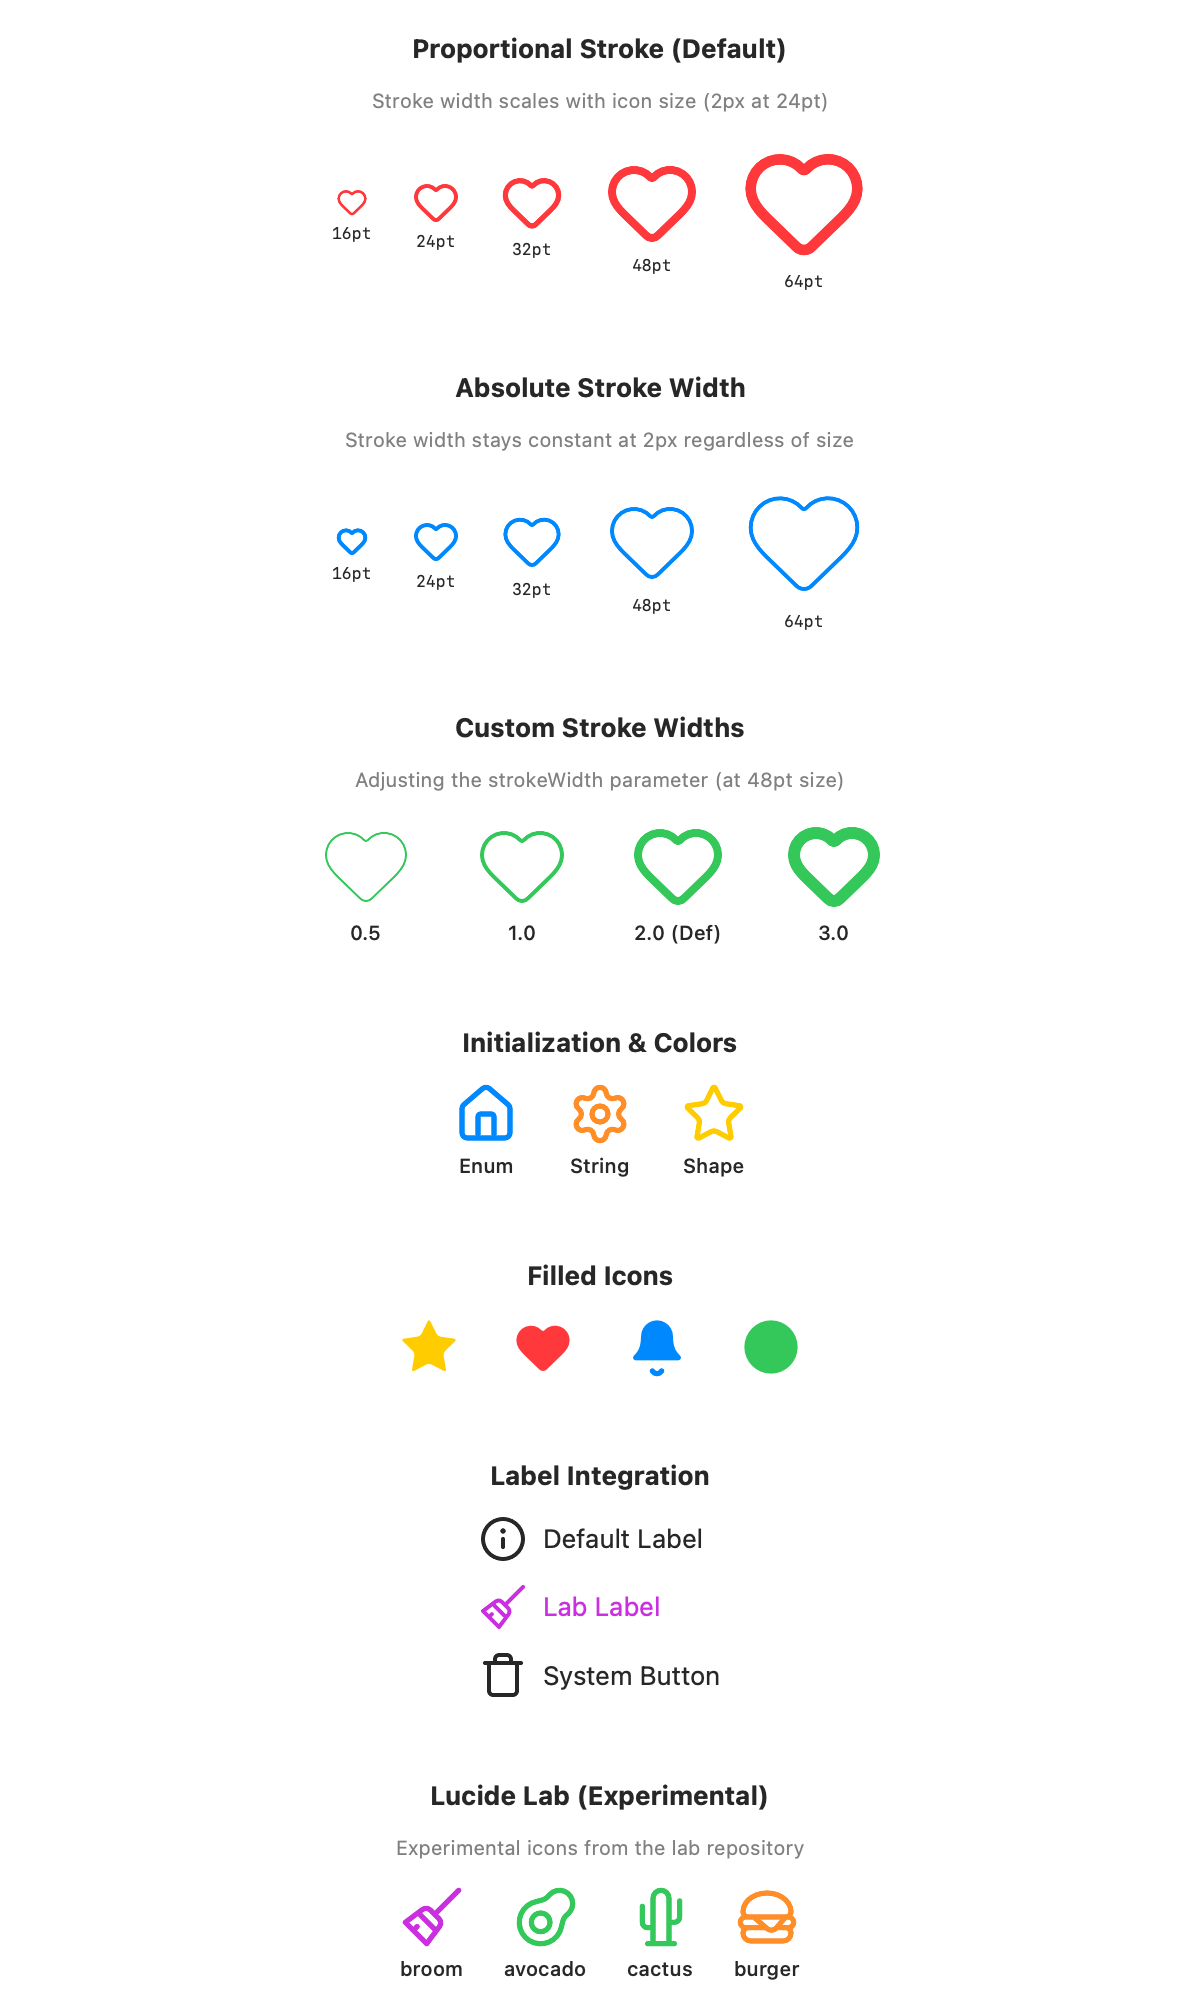
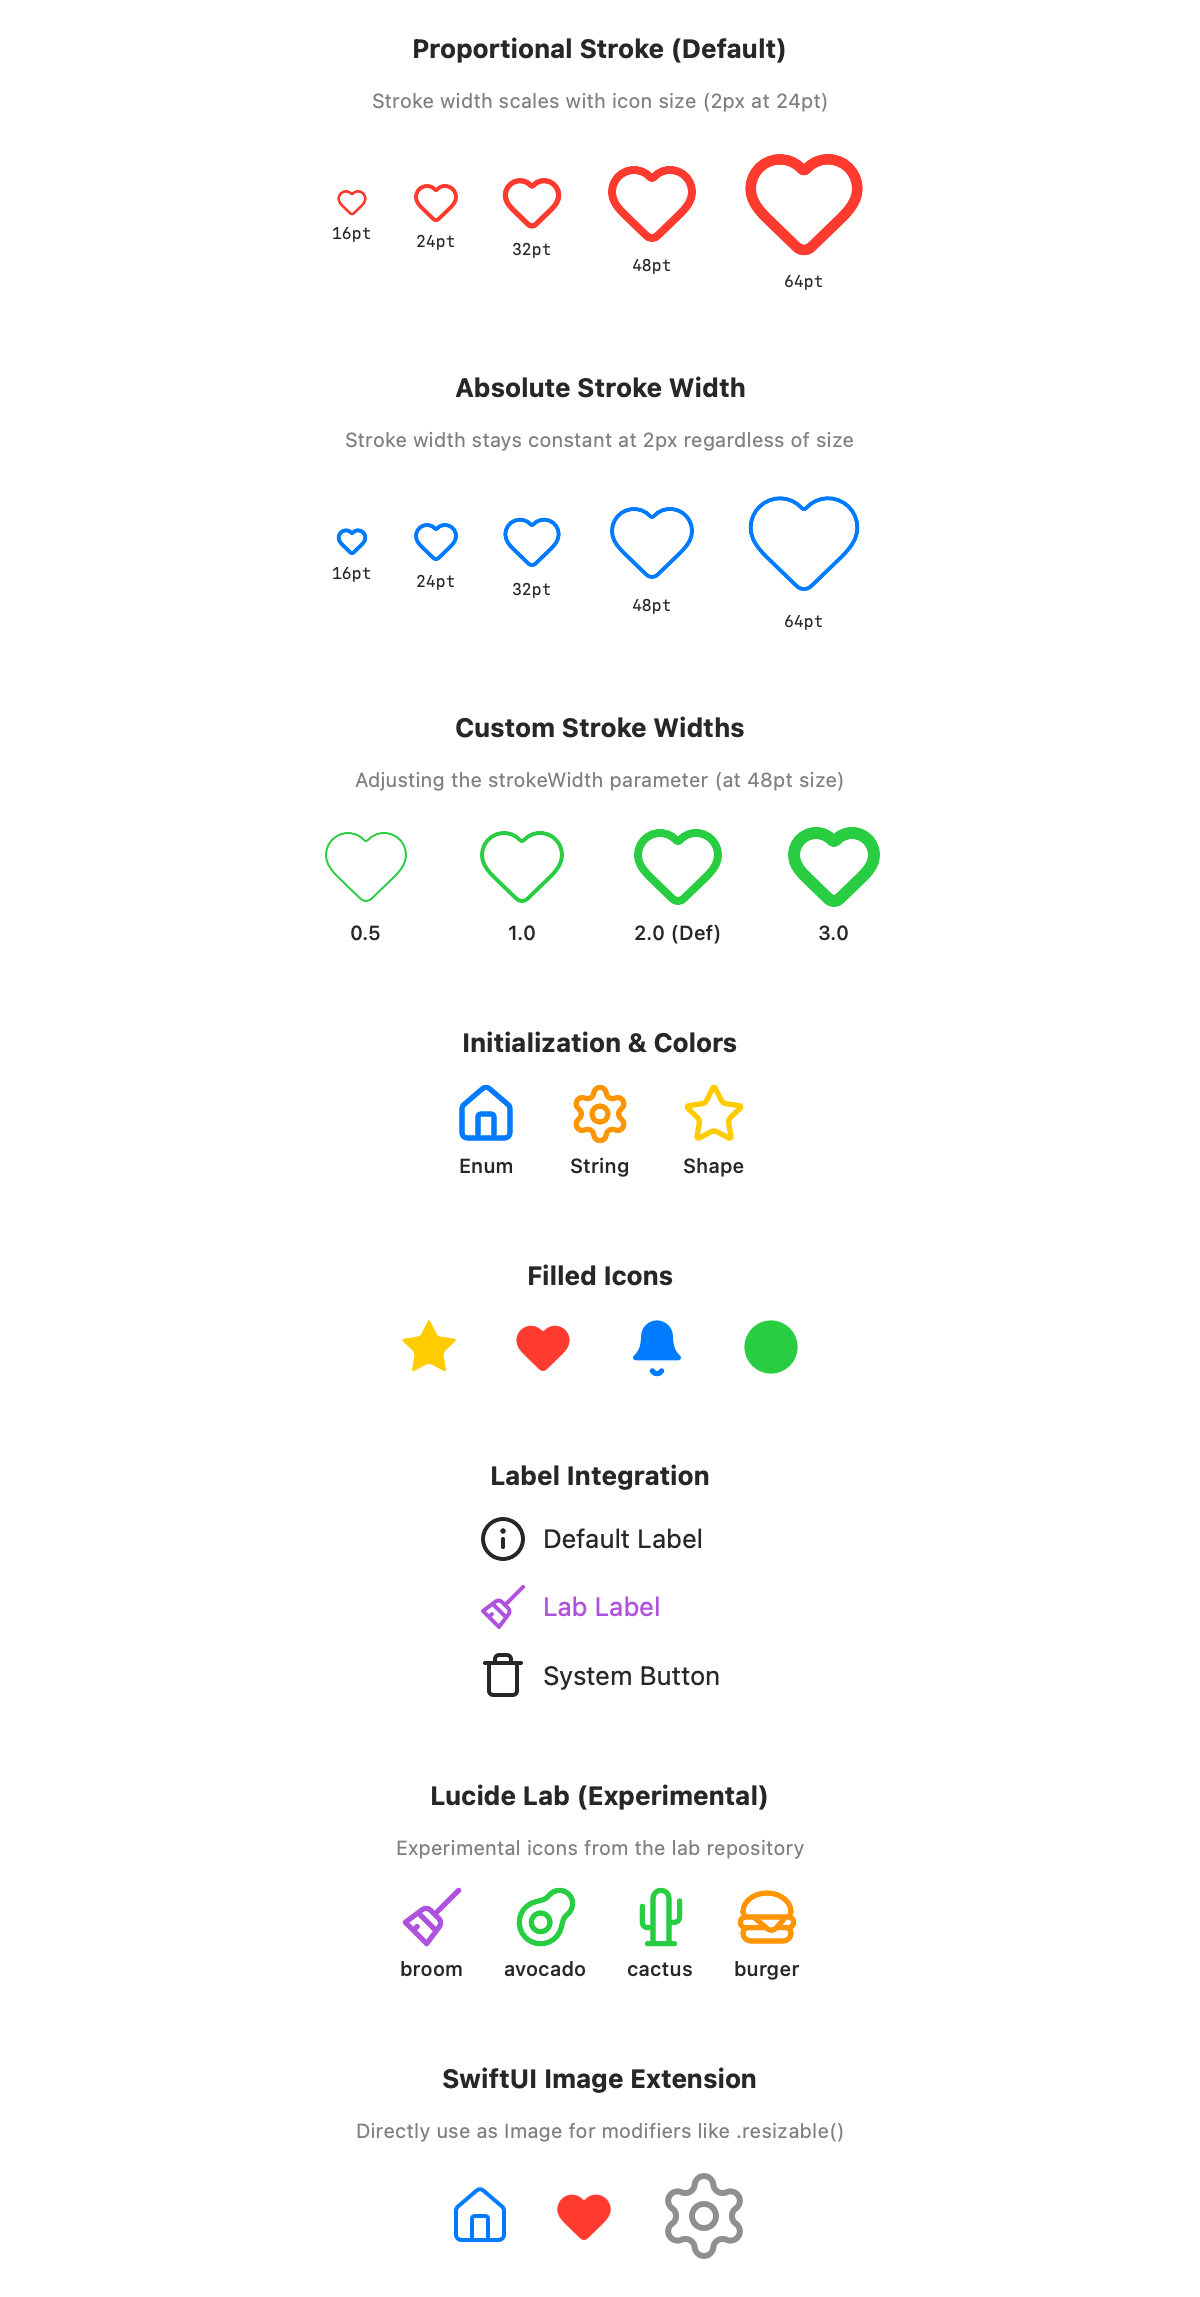
feat: add SwiftUI Image support (#5) (#14)
* feat: add SwiftUI Image support (#5)

- Added Image+Lucide.swift extension
- Supports initializing Image from LucideShape, LucideIconName, and LucideLabIconName
- Added support for stroked (lucide:) and filled (lucideFill:) variations
- Updated LucideGallery to demonstrate Image usage
- Added unit tests for new initializers

* fix: correct coordinate system for SwiftUI Image rendering

* docs: update preview for PR verification

---------

diff --git a/Sources/LucideSwift/Image+Lucide.swift b/Sources/LucideSwift/Image+Lucide.swift
@@ -1,0 +1,132 @@
+//
+//  Image+Lucide.swift
+//  LucideSwift
+//
+//  Extension for creating SwiftUI Image directly from Lucide icons
+//
+
+import SwiftUI
+import CoreGraphics
+
+@available(iOS 14.0, macOS 11.0, tvOS 14.0, watchOS 7.0, visionOS 1.0, *)
+public extension Image {
+    
+    /// Creates a SwiftUI Image from a LucideShape.
+    ///
+    /// The resulting image is generated in template rendering mode, meaning it
+    /// will automatically adapt to standard SwiftUI `.foregroundColor()` modifiers.
+    ///
+    /// - Note: The image is rasterized from a vector path during initialization.
+    /// Scaling it up significantly using `.resizable()` may result in pixelation.
+    /// For best results, specify the target point size during initialization.
+    ///
+    /// - Parameters:
+    ///   - shape: The LucideShape to render
+    ///   - size: The target point size of the image (default 24x24)
+    ///   - strokeWidth: The stroke width to use (default 2)
+    init(lucide shape: LucideShape, size: CGSize = CGSize(width: 24, height: 24), strokeWidth: CGFloat = 2) {
+        let cgImage = Self.renderTemplate(shape: shape, size: size, strokeWidth: strokeWidth, isFilled: false)
+        self = Image(cgImage, scale: 3.0, label: Text("Lucide Icon")).renderingMode(.template)
+    }
+    
+    /// Creates a filled SwiftUI Image from a LucideShape.
+    init(lucideFill shape: LucideShape, size: CGSize = CGSize(width: 24, height: 24), strokeWidth: CGFloat = 2) {
+        let cgImage = Self.renderTemplate(shape: shape, size: size, strokeWidth: strokeWidth, isFilled: true)
+        self = Image(cgImage, scale: 3.0, label: Text("Lucide Filled Icon")).renderingMode(.template)
+    }
+    
+    /// Creates a SwiftUI Image from a LucideIconName.
+    init(lucide iconName: LucideIconName, size: CGSize = CGSize(width: 24, height: 24), strokeWidth: CGFloat = 2) {
+        self.init(lucide: LucideShape(path: iconName.path), size: size, strokeWidth: strokeWidth)
+    }
+    
+    /// Creates a filled SwiftUI Image from a LucideIconName.
+    init(lucideFill iconName: LucideIconName, size: CGSize = CGSize(width: 24, height: 24), strokeWidth: CGFloat = 2) {
+        self.init(lucideFill: LucideShape(path: iconName.path), size: size, strokeWidth: strokeWidth)
+    }
+    
+    /// Creates a SwiftUI Image from a LucideLabIconName.
+    init(lucideLab iconName: LucideLabIconName, size: CGSize = CGSize(width: 24, height: 24), strokeWidth: CGFloat = 2) {
+        self.init(lucide: LucideShape(path: iconName.path), size: size, strokeWidth: strokeWidth)
+    }
+    
+    /// Creates a filled SwiftUI Image from a LucideLabIconName.
+    init(lucideLabFill iconName: LucideLabIconName, size: CGSize = CGSize(width: 24, height: 24), strokeWidth: CGFloat = 2) {
+        self.init(lucideFill: LucideShape(path: iconName.path), size: size, strokeWidth: strokeWidth)
+    }
+    
+    // MARK: - Private Renderer
+    
+    private static func renderTemplate(shape: LucideShape, size: CGSize, strokeWidth: CGFloat, isFilled: Bool) -> CGImage {
+        let scale: CGFloat = 3.0 // Render at @3x scale for retina sharpness
+        let pixelWidth = max(1, Int(size.width * scale))
+        let pixelHeight = max(1, Int(size.height * scale))
+        
+        let colorSpace = CGColorSpaceCreateDeviceRGB()
+        let bitmapInfo = CGImageAlphaInfo.premultipliedLast.rawValue
+        
+        guard let context = CGContext(
+            data: nil,
+            width: pixelWidth,
+            height: pixelHeight,
+            bitsPerComponent: 8,
+            bytesPerRow: pixelWidth * 4,
+            space: colorSpace,
+            bitmapInfo: bitmapInfo
+        ) else {
+            return createEmptyCGImage()
+        }
+        
+        context.setAllowsAntialiasing(true)
+        context.setShouldAntialias(true)
+        
+        // Flip coordinate system to match SwiftUI (Top-left origin)
+        context.translateBy(x: 0, y: CGFloat(pixelHeight))
+        context.scaleBy(x: scale, y: -scale)
+        
+        let rect = CGRect(origin: .zero, size: size)
+        
+        if isFilled {
+            // Draw filled portions
+            let closedPath = shape.closedPath(in: rect)
+            if !closedPath.isEmpty {
+                context.addPath(closedPath.cgPath)
+                context.setFillColor(CGColor(red: 0, green: 0, blue: 0, alpha: 1))
+                // EO fill rule matches how Lucide shapes are generated
+                context.drawPath(using: .eoFill)
+            }
+            
+            // Draw stroked portions
+            let openPath = shape.openPath(in: rect)
+            if !openPath.isEmpty {
+                context.addPath(openPath.cgPath)
+                context.setStrokeColor(CGColor(red: 0, green: 0, blue: 0, alpha: 1))
+                context.setLineWidth(strokeWidth)
+                context.setLineCap(.round)
+                context.setLineJoin(.round)
+                context.strokePath()
+            }
+        } else {
+            // Draw regular stroked icon
+            let scaledPath = shape.path(in: rect)
+            if !scaledPath.isEmpty {
+                context.addPath(scaledPath.cgPath)
+                context.setStrokeColor(CGColor(red: 0, green: 0, blue: 0, alpha: 1))
+                context.setLineWidth(strokeWidth)
+                context.setLineCap(.round)
+                context.setLineJoin(.round)
+                context.strokePath()
+            }
+        }
+        
+        return context.makeImage() ?? createEmptyCGImage()
+    }
+    
+    private static func createEmptyCGImage() -> CGImage {
+        let context = CGContext(
+            data: nil, width: 1, height: 1, bitsPerComponent: 8, bytesPerRow: 4,
+            space: CGColorSpaceCreateDeviceRGB(), bitmapInfo: CGImageAlphaInfo.premultipliedLast.rawValue
+        )!
+        return context.makeImage()!
+    }
+}

diff --git a/Sources/LucideSwift/LucideIcon.swift b/Sources/LucideSwift/LucideIcon.swift
@@ -426,6 +426,24 @@ public struct LucideGallery: View {
                         }
                     }
                 }
+                
+                // 8. SwiftUI Image Extension
+                VStack(spacing: 12) {
+                    Text("SwiftUI Image Extension").font(.headline)
+                    Text("Directly use as Image for modifiers like .resizable()").font(.caption).foregroundColor(.secondary)
+                    HStack(spacing: 20) {
+                        Image(lucide: .house, size: CGSize(width: 32, height: 32))
+                            .foregroundColor(.blue)
+                        
+                        Image(lucideFill: .heart, size: CGSize(width: 32, height: 32))
+                            .foregroundColor(.red)
+                        
+                        Image(lucide: .settings, size: CGSize(width: 32, height: 32))
+                            .resizable()
+                            .frame(width: 48, height: 48)
+                            .foregroundColor(.gray)
+                    }
+                }
             }
             .padding()
             .frame(width: 600) // Fixed width for screenshot

diff --git a/Tests/LucideSwiftTests/LucideSwiftTests.swift b/Tests/LucideSwiftTests/LucideSwiftTests.swift
@@ -38,6 +38,19 @@ final class LucideSwiftTests: XCTestCase {
         XCTAssertNotNil(iconView)
     }
     
+    func testImageExtension() {
+        // Verify Image initializers compile and return non-nil Image views
+        let image1 = Image(lucide: .house)
+        let image2 = Image(lucideFill: .heart)
+        let image3 = Image(lucideLab: .broom)
+        let image4 = Image(lucideLabFill: .avocado)
+        
+        XCTAssertNotNil(image1)
+        XCTAssertNotNil(image2)
+        XCTAssertNotNil(image3)
+        XCTAssertNotNil(image4)
+    }
+    
     func testAllIconsExist() {
         // Test that we can access various icons
         let icons: [LucideShape] = [
